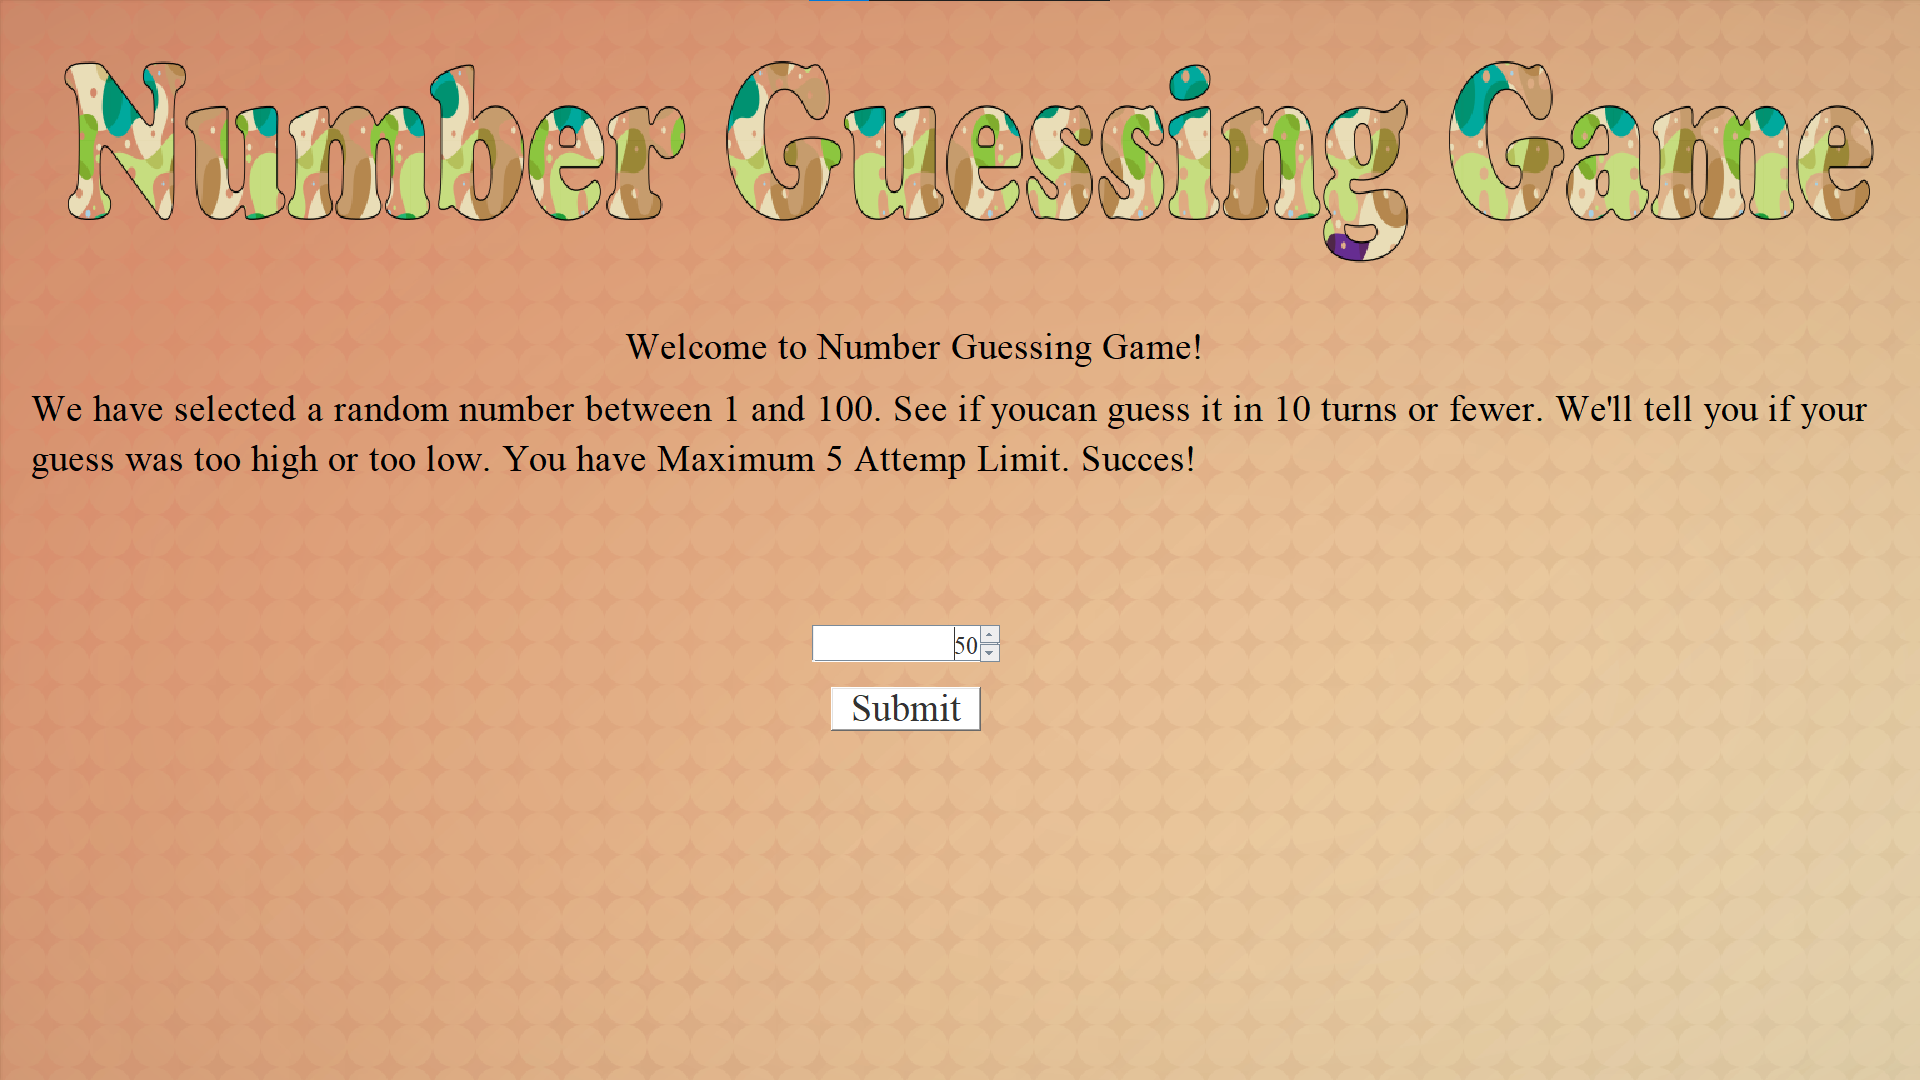
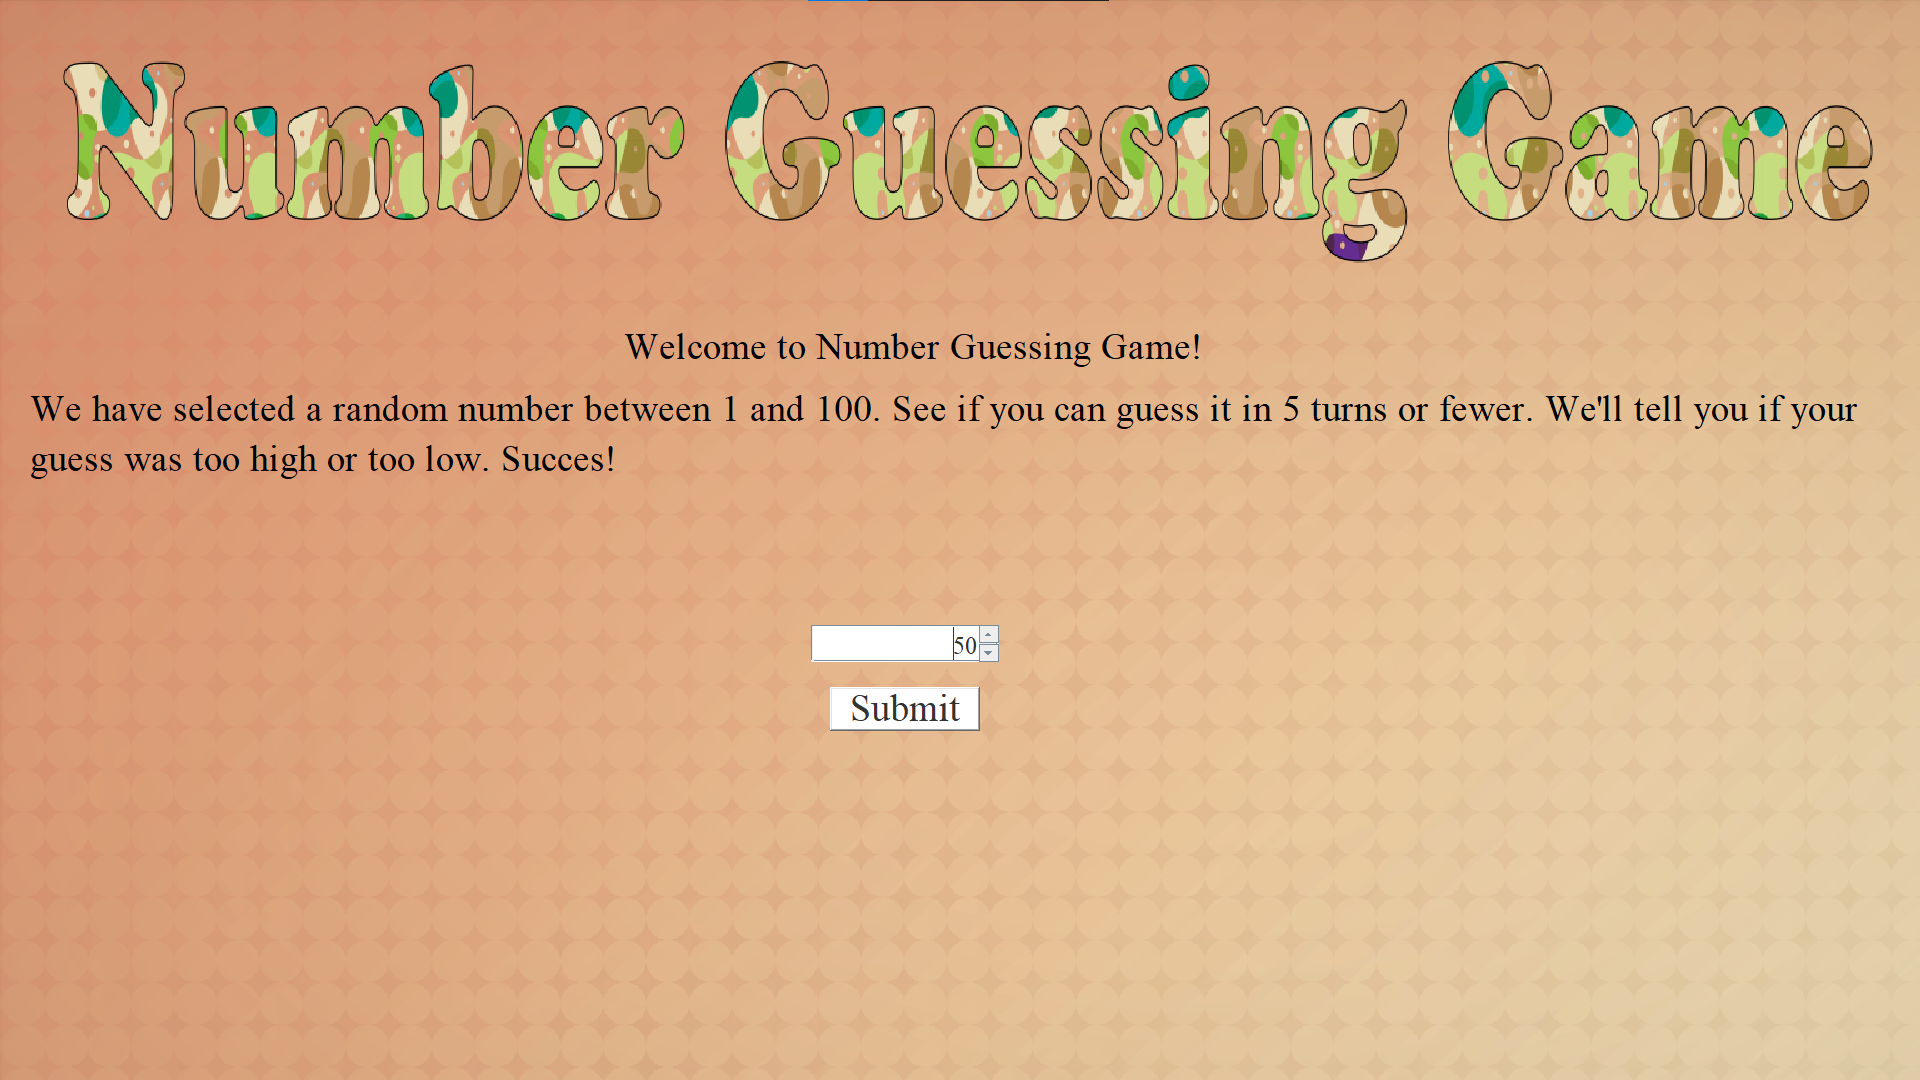
Add game

diff --git a/Number Guessing Game/src/main/java/MyWindow.java b/Number Guessing Game/src/main/java/MyWindow.java
@@ -49,9 +49,9 @@ public class MyWindow {
 
         //Text
         Text welcome = new Text(frame1, 500, 250, "Welcome to Number Guessing Game!", 1700, 50);
-        Text task = new Text(frame1, 25, 300, "We have selected a random number between 1 and 100. See if you" +
+        Text task = new Text(frame1, 25, 300, "We have selected a random number between 1 and 100. See if you " +
                 "can guess it in 5 turns or fewer. We'll tell you if your", 1700, 50);
-        Text task2 = new Text(frame1, 25, 340, "guess was too high or too low. You have Maximum 5 Attemp Limit. Succes!", 1700, 50);
+        Text task2 = new Text(frame1, 25, 340, "guess was too high or too low. Succes!", 1700, 50);
 
         //Spinner
         SpinnerModel value = new SpinnerNumberModel(50, 1, 100, 1);
